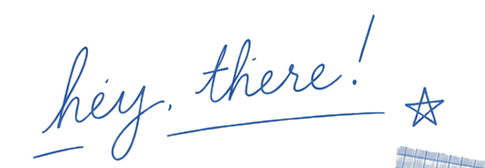
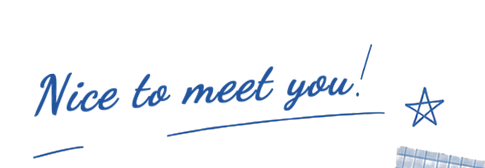
Change the about greeting to "Nice to meet you!"
The greeting is artwork, not live text, so the lettering is redrawn in
a matching blue script at the same ink colour, slant and weight, then
set on the same rising baseline. The underline swashes, the star, the
exclamation stroke and the grid-paper corner are the original strokes,
lifted out of the old file and kept in place.

Claude-Session: https://claude.ai/code/session_01HwHnB6ZvdvjAvLg4jAqUHh

Changed region(s): [[0.0619, 0.2381, 0.7423, 0.9524], [0.7423, 0.0893, 0.7732, 0.4762], [0.0619, 0.7738, 0.0928, 0.8036]]

diff --git a/index.html b/index.html
@@ -273,7 +273,7 @@ nav,nav a,nav .mono img{transition:color .35s ease,filter .35s ease}
     <div class="ab" id="ab-floral"       aria-hidden="true"><img src="assets/about/floral.png" alt=""></div>
 
     <!-- text layers: real, selectable HTML -->
-    <div class="ab" id="ab-hey"><img src="assets/about/hey-art.png" alt="hey, there!"></div>
+    <div class="ab" id="ab-hey"><img src="assets/about/hey-art.png" alt="Nice to meet you!"></div>
     <div class="ab ab-type" id="ab-intro">
       <p>I&rsquo;m a cognitive science student interested in UI/UX and AI-human interaction.</p>
       <p>I build projects and design experiences around those interests, along with planning events and bringing people together, especially when there&rsquo;s a larger purpose behind the work.</p>
